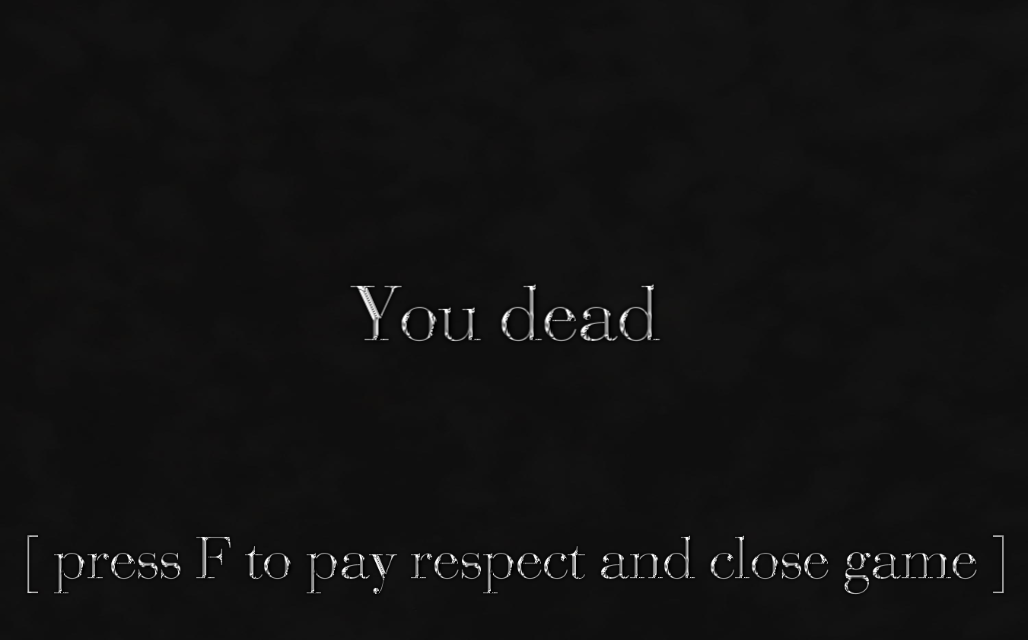
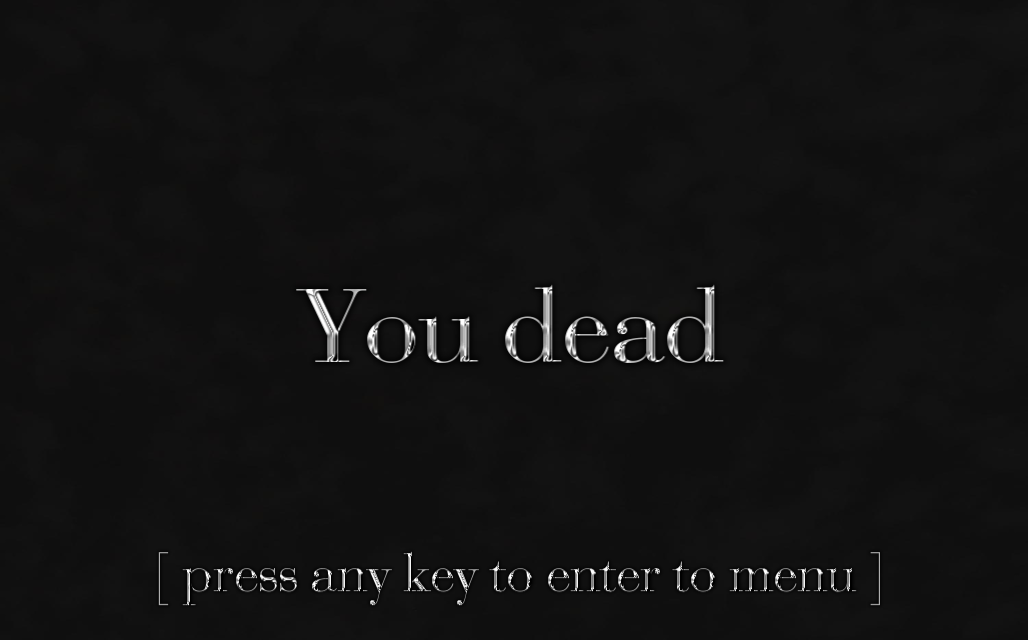
Leaderboard.cs and DrawLeaderBoard

Changed region(s): [[0.0311, 0.8438, 0.965, 0.9375], [0.2802, 0.4375, 0.716, 0.5625]]

diff --git a/Visualization/LabyrinthWindow.cs b/Visualization/LabyrinthWindow.cs
@@ -24,6 +24,7 @@ namespace LabirintDemoGame.Visualization
         private bool contin;
         private bool quit;
         private bool leader;
+        private Leaderboard leaders;
 
         public LabyrinthWindow(Game game)
         {
@@ -35,6 +36,7 @@ namespace LabirintDemoGame.Visualization
             contin = false;
             quit = false;
             leader = false;
+            leaders = new Leaderboard();
             ClientSize = new Size(1028, 640);
             FormBorderStyle = FormBorderStyle.FixedDialog;
             MinimumSize = new Size(1028, 640);
@@ -59,9 +61,9 @@ namespace LabirintDemoGame.Visualization
         {
             e.Graphics.Clear(BackColor);
             if (start)
-            {
                 MainMenu(e);
-            }
+            else if (leader)
+                DrawLeaderboard(e);
             else
             {
                 if (drawResult)
@@ -113,6 +115,7 @@ namespace LabirintDemoGame.Visualization
         {
             var image = bitmaps["YouDead"];
             e.Graphics.DrawImage(image, new Point(0, 0));
+            leaders.Update("Stephan", game.Player.Gold);
         }
 
 
@@ -160,7 +163,7 @@ namespace LabirintDemoGame.Visualization
 
         protected override void OnKeyDown(KeyEventArgs e)
         {
-            if (game.EndGame)
+            if (game.EndGame || leader)
             {
                 start = true;
                 Invalidate();
@@ -233,6 +236,20 @@ namespace LabirintDemoGame.Visualization
                 e.Graphics.FillEllipse(Brushes.Silver, 845, 275, 10, 10);
         }
 
+        private void DrawLeaderboard(PaintEventArgs e)
+        {
+            var image = bitmaps["Leaderboard"];
+            var font = new Font("Arial", 36);
+            e.Graphics.DrawImage(image, new Point(0, 0));
+            var y = 200;
+            foreach (var record in leaders.Show())
+            {
+                e.Graphics.DrawString(record.Item1, font, Brushes.Silver, 240, y);
+                e.Graphics.DrawString(record.Item2, font, Brushes.Silver, 600, y);
+                y += 60;
+            }
+        }
+
         protected override void OnMouseMove(MouseEventArgs e)
         {
             if (!start) return;
@@ -246,7 +263,7 @@ namespace LabirintDemoGame.Visualization
         protected override void OnMouseClick(MouseEventArgs e)
         {
             if (!start) return;
-            if (ng || contin)
+            if (ng || contin || leader)
                 start = false;
             else if (quit)
                 Close();

diff --git a/Architecture/Leaderboard.cs b/Architecture/Leaderboard.cs
@@ -1,0 +1,54 @@
+using System;
+using System.Collections.Generic;
+using System.IO;
+using System.Linq;
+using System.Xml.Xsl.Runtime;
+
+namespace LabirintDemoGame.Architecture
+{
+    public class Leaderboard
+    {
+        public List<string> Leaders;
+
+        public Leaderboard()
+        {
+            Leaders = ReadFile("leaders.txt").Split('\n').ToList();
+        }
+
+        private void ToFile()
+        {
+            using (var w = new StreamWriter("leader.txt"))
+                w.Write(ToString());
+        }
+
+        private static string ReadFile(string fileName)
+        {
+            using (var r = new StreamReader(fileName))
+                return r.ReadToEnd();
+        }
+
+        public override string ToString()
+        {
+            return string.Join("\n", Leaders);
+        }
+
+        public void Update(string name, int score)
+        {
+            Leaders.Add(name + $" {score}");
+            Leaders = Leaders.Select(x => x.Split(' '))
+                .Select(x => Tuple.Create(x[0], int.Parse(x[1])))
+                .OrderBy(x => x.Item2)
+                .Take(5)
+                .Select(x => x.Item1 + $" {x.Item2}")
+                .ToList();
+            ToFile();
+        }
+
+        public IEnumerable<Tuple<string, string>> Show()
+        {
+            return Leaders.Select(record => record.Split(' ')
+                .ToArray())
+                .Select(c => Tuple.Create(c[0], c[1]));
+        }
+    }
+}

diff --git a/Config.cs b/Config.cs
@@ -14,7 +14,7 @@ namespace LabirintDemoGame
             "Medicine",
             "SmallRoom",
             "Steps",
-            "Weapon",
+            "WeaponRoom",
             "Goblin"
         };
     }
